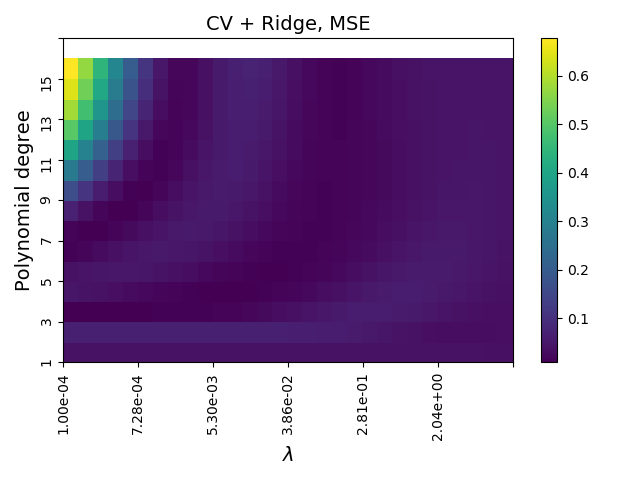
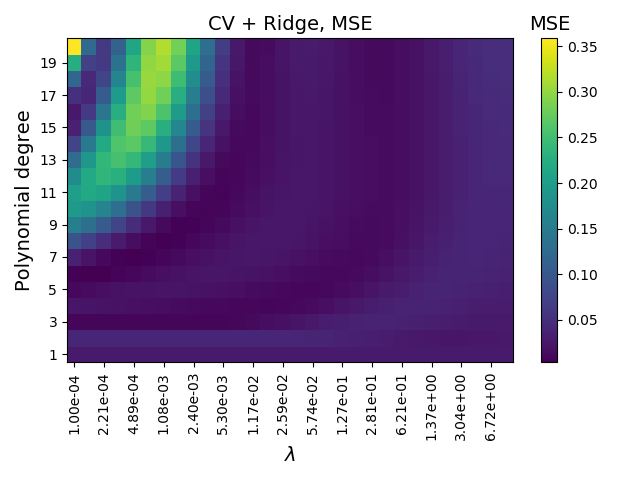
bootstrap still weird

diff --git a/src/main.py b/src/main.py
@@ -31,7 +31,7 @@ data = 'franke' if run_mode in ['a', 'b', 'c', 'd', 'e'] else None
 data = 'terrain' if run_mode in ['f', 'g'] else data
 
 # Common variables for both parts for easy adjusting
-p_dict = {'a': 5, 'b': 15, 'c': 5, 'd': 15,
+p_dict = {'a': 5, 'b': 15, 'c': 5, 'd': 20,
           'e': 10, 'f': 10, 'g': 15}
 scale_dict = {'a': [True, False], 'b': [True, False], 'c': [True, False], 'd': [True, False],
               'e': [True, False], 'f': [True, False], 'g': [True, False], 'h': [True, False]}
@@ -55,9 +55,11 @@ if data == 'franke':
     # Creating data set for the Franke function tasks
     seed = 4155
     np.random.seed(seed)
-    n_franke = 32  # number of samples of x/y
+#    n_franke = 32  # number of samples of x/y
+    n_franke = 23  # 529 points
     N = n_franke**2  # Total number of samples n*2
     noise = 0.05  # 2
+#    noise = 0.1  # 2
 #    noise = 0.8571
 
     # Randomly generated meshgrid
@@ -101,10 +103,9 @@ if run_mode == 'a':
     ztildeOLS = OLS.predict(X_test_scaled)
 
     # Printing MSE and R2 score
-    # TODO: maybe save results to file?
     fun.print_MSE_R2(z_test, ztildeOLS, 'test', 'OLS')
 
-    # Confidence interval TODO: fix comments
+    # Confidence interval for beta
     conf = OLS.confidence_interval_beta(X_test, z_test, ztildeOLS)
     fun.plot_confidence_int(betaOLS, conf, 'OLS', fig_path, run_mode)
     plt.show()
@@ -249,8 +250,10 @@ if run_mode == 'c':
     K = 5
 
     polydegree = np.arange(1, p + 1)
-    error_CV = np.zeros(len(polydegree))
-    error_SKL = np.zeros(len(polydegree))
+    error_train_CV = np.zeros(len(polydegree))
+    error_test_CV = np.zeros(len(polydegree))
+    error_train_SKL = np.zeros(len(polydegree))
+    error_test_SKL = np.zeros(len(polydegree))
 
     X_scaled = fun.scale_X(X, scale)
     OLS = reg.OrdinaryLeastSquares(OLSmethod)
@@ -262,30 +265,31 @@ if run_mode == 'c':
         X_cv[:, :] = X_scaled[:, 0:n_poly]
 
         CV = res.CrossValidation(X_cv, z_ravel, OLS, fun.mean_squared_error)
-        error_CV[degree-1] = CV.compute(K)
+        trainE, testE = CV.compute(K)
+        error_train_CV[degree-1] = trainE
+        error_test_CV[degree-1] = testE
 
         print('K-fold cross-validation:')
-        print('K=%d, MSE = %.5f' % (K, error_CV[degree-1]))
+        print('K=%d, MSE = %.5f' % (K, error_test_CV[degree-1]))
 
-        kfold = KFold(n_splits=K)
-    #    kfold = KFold(n_splits=K, random_state=None, shuffle=True)
-        for train_inds, test_inds in kfold.split(X):
-            X_train = X_cv[train_inds]
-            z_train = z_ravel[train_inds]
-
-            X_test = X_cv[test_inds]
-            z_test = z_ravel[test_inds]
-
-            betaOLS = OLS.fit(X_train, z_train)
-            z_testOLS = OLS.predict(X_test)
-
-            error_SKL[degree-1] += fun.mean_squared_error(z_test, z_testOLS) / K
+        CV_SKL = res.CrossValidationSKL(X_cv, z_ravel, OLS)
+        trainE, testE = CV_SKL.compute(K)
+        error_train_SKL[degree-1] = trainE
+        error_test_SKL[degree-1] = testE
 
         print('K-fold cross-validation SKL:')
-        print('K=%d, MSE = %.5f' % (K, error_SKL[degree-1]))
+        print('K=%d, MSE = %.5f' % (K, error_test_SKL[degree-1]))
 
-    fun.plot_multiple_y(polydegree, [error_CV, error_SKL], ['CV', 'SKL'], 'Comparing different CV implementations',
-                        'Polynomial degree', 'Mean squared error', 'compare_CV_SKL_p%d' % p, fig_path, run_mode)
+    fun.plot_multiple_y(polydegree, [error_test_CV, error_test_SKL], ['test CV', 'test SKL'],
+                        'Comparing different CV implementations', 'Polynomial degree', 'Mean squared error',
+                        'test_compare_CV_SKL_p%d' % p, fig_path, run_mode)
+
+    fun.plot_multiple_y(polydegree, [error_train_CV, error_train_SKL], ['train CV', 'train SKL'],
+                        'Comparing different CV implementations', 'Polynomial degree', 'Mean squared error',
+                        'train_compare_CV_SKL_p%d' % p, fig_path, run_mode)
+
+    # Suspect the difference lies in the splitting, which would be worth looking at
+
     plt.show()
 
 
@@ -295,7 +299,7 @@ if run_mode == 'd':
     lambdas = np.logspace(-4, 1, nlambdas)
 
     # Bootstrap
-    N_bootstraps = int(N/2)  # 100
+    N_bootstraps = 100  # int(N/2)  # 100
 
     # Cross-validation
     K = 5
@@ -314,21 +318,25 @@ if run_mode == 'd':
     polydegree = np.arange(1, p + 1)
 
     # Bootstrap arrays
-    bs_error_Ridge = np.zeros((p, nlambdas))
-    bs_bias_Ridge = np.zeros((p, nlambdas))
-    bs_var_Ridge = np.zeros((p, nlambdas))
+    bs_error_train = np.zeros((p, nlambdas))
+    bs_error_test = np.zeros((p, nlambdas))
+    bs_bias = np.zeros((p, nlambdas))
+    bs_var = np.zeros((p, nlambdas))
 
     # error/var/bias at the lambda that gives minimum
     # TODO: Though maybe a common value for them is correct to do?
-    bs_error_optimal = np.zeros(p)
-    bs_bias_optimal = np.zeros(p)
-    bs_var_optimal = np.zeros(p)
-    bs_lmb_optimal = np.zeros(p)
+    bs_error_train_opt = np.zeros(p)
+    bs_error_test_opt = np.zeros(p)
+    bs_bias_opt = np.zeros(p)
+    bs_var_opt = np.zeros(p)
+    bs_lmb_opt = np.zeros(p)
 
     # Cross-validation arrays
-    cv_error_Ridge = np.zeros((p, nlambdas))
-    cv_error_optimal = np.zeros(p)
-    cv_lmb_optimal = np.zeros(p)
+    cv_error_train = np.zeros((p, nlambdas))
+    cv_error_test = np.zeros((p, nlambdas))
+    cv_error_train_opt = np.zeros(p)
+    cv_error_test_opt = np.zeros(p)
+    cv_lmb_opt = np.zeros(p)
 #    test_Ridge = np.zeros((p, nlambdas))
 
     # Confidence intervals
@@ -357,70 +365,90 @@ if run_mode == 'd':
 
             # Bootstrap
             BS = res.Bootstrap(X_train_bs, X_test_bs, z_train, z_test, Ridge, fun.mean_squared_error)
-            error_, bias_, var_ = BS.compute(N_bootstraps)
-            bs_error_Ridge[degree-1, i] = error_
-            bs_bias_Ridge[degree - 1, i] = bias_
-            bs_var_Ridge[degree-1, i] = var_
+            error_, bias_, var_, trainE_ = BS.compute(N_bootstraps)
+            bs_error_test[degree-1, i] = error_
+            bs_bias[degree - 1, i] = bias_
+            bs_var[degree-1, i] = var_
+            bs_error_train[degree-1, i] = trainE_
 
             # Cross validation
             CV = res.CrossValidation(X_cv, z_ravel, Ridge, fun.mean_squared_error)
-            cv_error_Ridge[degree-1, i] = CV.compute(K)
-
-            # Confidence interval Ridge
-#            Ridge.fit(X_train_bs, z_train)
-#            z_Ridge = Ridge.predict(X_test_bs)
-#            conf_int_Ridge[degree-1, i, 0:n_poly] = Ridge.confidence_interval_beta(X_test_bs, z_test, z_Ridge)
-
+            trainE, testE = CV.compute(K)
+            cv_error_train[degree-1, i] = trainE
+            cv_error_test[degree-1, i] = testE
 
 #        bs_error_optimal[degree-1] = np.min(bs_error_Ridge[degree-1, :])
 #        bs_var_optimal[degree-1] = np.min(bs_var_Ridge[degree-1, :])
 #        bs_bias_optimal[degree-1] = np.min(bs_bias_Ridge[degree-1, :])
 
+        # Locating minimum MSE for each polynomial degree
+
         # Bootstrap
-        index_bs = np.argmin(bs_error_Ridge[degree-1, :])
-        bs_lmb_optimal[degree-1] = lambdas[index_bs]
-        bs_error_optimal[degree-1] = bs_error_Ridge[degree-1, index_bs]
-        bs_bias_optimal[degree-1] = bs_bias_Ridge[degree-1, index_bs]
-        bs_var_optimal[degree-1] = bs_var_Ridge[degree-1, index_bs]
+        index_bs = np.argmin(bs_error_test[degree-1, :])
+        bs_lmb_opt[degree-1] = lambdas[index_bs]
 
         # Cross-validation
-        index_cv = np.argmin(cv_error_Ridge[degree-1, :])
-        cv_lmb_optimal[degree-1] = lambdas[index_cv]
-        cv_error_optimal[degree-1] = cv_error_Ridge[degree-1, index_cv]
+        index_cv = np.argmin(cv_error_test[degree-1, :])
+        cv_lmb_opt[degree-1] = lambdas[index_cv]
 
-    # Locate minimum MSE to see how it depends on lambda
-    bs_min_error = np.unravel_index(np.argmin(bs_error_Ridge), bs_error_Ridge.shape)
-    cv_min_error = np.unravel_index(np.argmin(cv_error_Ridge), cv_error_Ridge.shape)
+    # Locate minimum MSE  to see how it depends on lambda
+    bs_min = np.unravel_index(np.argmin(bs_error_test), bs_error_test.shape)
+    cv_min = np.unravel_index(np.argmin(cv_error_test), cv_error_test.shape)
+    bs_best = [polydegree[bs_min[0]], lambdas[bs_min[1]]]
+    cv_best = [polydegree[cv_min[0]], lambdas[cv_min[1]]]
 
-    fun.plot_lambda_mse(lambdas, bs_error_Ridge[bs_min_error[0], :], 'Bootstrap p=%d' % bs_min_error[0],
-                        'bootstrap_p%d' % bs_min_error[0], fig_path, run_mode, fs=14)
+    # Bootstrap
+    bs_error_train_opt[:] = bs_error_train[:, bs_min[1]]
+    bs_error_test_opt[:] = bs_error_test[:, bs_min[1]]
+    bs_bias_opt[:] = bs_bias[:, bs_min[1]]
+    bs_var_opt[:] = bs_var[:, bs_min[1]]
 
-    fun.plot_lambda_mse(lambdas, cv_error_Ridge[cv_min_error[0], :], 'Cross-validation p=%d' % cv_min_error[0],
-                        'cv_p%d' % cv_min_error[0], fig_path, run_mode, fs=14)
+    # Cross-validation
+    cv_error_train_opt[:] = cv_error_train[:, cv_min[1]]
+    cv_error_test_opt[:] = cv_error_test[:, cv_min[1]]
+
+    fun.plot_lambda_mse(lambdas, bs_error_test[bs_min[0], :], 'Bootstrap p=%d' % bs_best[0],
+                        'bootstrap_p%d' % bs_best[0], fig_path, run_mode, fs=14)
+
+    fun.plot_lambda_mse(lambdas, cv_error_test[cv_min[0], :], 'Cross-validation p=%d' % cv_best[0],
+                        'cv_p%d' % cv_best[0], fig_path, run_mode, fs=14)
 
     # Bootstrap Plots
-    fun.plot_bias_variance(polydegree, bs_error_optimal, bs_bias_optimal, bs_var_optimal,
-                           'Ridge regression, $N$=%d, $N_{bs}$=%d' % (N, N_bootstraps),
+#    fun.plot_bias_variance(polydegree, bs_error_test[:, bs_min_error[1]], bs_bias[:, bs_min_error[1]], bs_var[:, bs_min_error[1]],
+    fun.plot_bias_variance(polydegree, bs_error_test_opt, bs_bias_opt, bs_var_opt,
+                           'Ridge regression, $\lambda$=%.2e, $N$=%d, $N_{bs}$=%d' % (bs_best[1], N, N_bootstraps),
                            'N%d_Nbs%d' % (N, N_bootstraps), fig_path, run_mode)
 
-    fun.plot_degree_lambda(polydegree, bs_lmb_optimal, 'Bootstrap $\lambda$ value at min(error)',
+    fun.plot_degree_lambda(polydegree, bs_lmb_opt, 'Bootstrap $\lambda$ value at min(error)',
                            'bootstrap', fig_path, run_mode)
 
-    fun.plot_heatmap(lambdas, polydegree, bs_error_Ridge, 'Bootstrap + Ridge, MSE',
+    fun.plot_heatmap(lambdas, polydegree, bs_error_test, 'MSE', 'Bootstrap + Ridge, MSE',
                      'bs_ridge_error', fig_path, run_mode)
 
-    fun.plot_heatmap(lambdas, polydegree, bs_bias_Ridge, 'Bootstrap + Ridge, bias',
+    fun.plot_heatmap(lambdas, polydegree, bs_bias, 'bias', 'Bootstrap + Ridge, bias',
                      'bs_ridge_bias', fig_path, run_mode)
 
-    fun.plot_heatmap(lambdas, polydegree, bs_var_Ridge, 'Bootstrap + Ridge, variance',
+    fun.plot_heatmap(lambdas, polydegree, bs_var, 'var', 'Bootstrap + Ridge, variance',
                      'bs_ridge_variance', fig_path, run_mode)
 
     # Cross-Validation Plots
-    fun.plot_degree_lambda(polydegree, cv_lmb_optimal, 'CV $\lambda$ value at min(error)',
+    fun.plot_degree_lambda(polydegree, cv_lmb_opt, 'CV $\lambda$ value at min(error)',
                            'cv', fig_path, run_mode)
 
-    fun.plot_heatmap(lambdas, polydegree, cv_error_Ridge, 'CV + Ridge, MSE',
+    fun.plot_heatmap(lambdas, polydegree, cv_error_test, 'MSE', 'CV + Ridge, MSE',
                      'cv_ridge_error', fig_path, run_mode)
+
+    # MSE train test plots
+    fun.plot_MSE_train_test(polydegree, cv_error_train_opt, cv_error_test_opt,
+                            'p=%d, $\lambda$=%.2e, N=%d, $N_{BS}$=%d' % (cv_best[0], cv_best[1], N, N_bootstraps),
+                            'p%d_lmb%.2e_n%d_ts%.2f' % (cv_best[0], cv_best[1], N, test_size),
+                            fig_path, run_mode, resample='CV')
+
+    fun.plot_MSE_train_test(polydegree, bs_error_train_opt, bs_error_test_opt,
+                            'p=%d, $\lambda$=%.2e, N=%d, $N_{BS}$=%d' % (bs_best[0], bs_best[1], N, N_bootstraps),
+                            'p%d_lmb%.2e_n%d_ts%.2f' % (bs_best[0], bs_best[1], N, test_size),
+                            fig_path, run_mode, resample='Bootstrap')
+
 
     # Confidence Interval plot for Ridge
     Ridge.set_lambda(1e-4)

diff --git a/src/functions.py b/src/functions.py
@@ -213,7 +213,7 @@ def plot_MSE_train_test(polydegree, train_MSE, test_MSE, title_mod, save, fig_pa
     plt.ylabel('Mean squared error', fontsize=fs)
 #    plt.yscale('log')
     plt.grid('on')
-    plt.tight_layout()
+#    plt.tight_layout()
     if resample is not None:
         plt.title(r'Train test MSE, %s, %s' % (resample, title_mod), fontsize=fs)
 #        plt.title('%s, N = %d, test size = %.2f, noise = %.2f' % (resample, n_a*n_a, test_size, noise), fontsize=fs)
@@ -224,10 +224,6 @@ def plot_MSE_train_test(polydegree, train_MSE, test_MSE, title_mod, save, fig_pa
 #        plt.title('N = %d, test size = %.2f, noise = %.2f' % (n_a*n_a, test_size, noise), fontsize=fs)
 #        plt.savefig(fig_path+'task_%s/MSE_train_test_n%d.png' % (task, n_a*n_a))
         plt.savefig(fig_path+'task_%s/MSE_train_test_%s.png' % (task, save))
-#    plt.ylim([0, 0.025])
-#    plt.ylim([0.0, 0.02])
-
-    # TODO: add more sophisticated filename - figure out what variation we need plot wise
 
 
 def plot_MSE_test_OLS_fit(polydegree, train_MSE, test_MSE, n_a, test_size, noise, OLSmethod, fs=14):
@@ -328,29 +324,25 @@ def plot_degree_lambda(polydegree, lambdas, title, save, fig_path, task, fs=14):
     plt.savefig(fig_path+'task_%s/degree_lambdas_%s.png' % (task, save))
 
 
-def plot_heatmap(x, y, z, title, save, fig_path, task, fs=14):
-    fig = plt.figure()
-#    heatmap = plt.pcolor(x, y, z)
-    heatmap = plt.pcolor(z)
-    fig.colorbar(heatmap)
-    loc, labels = plt.xticks()
-    step = int(loc[1]-loc[0])
-    locx = loc + step/2
-    print(locx, labels)
-    plt.xticks(loc, ['%.2e' % x[int(i)] for i in range(int(loc[0]), int(loc[-1]), step)], rotation=90)
+def plot_heatmap(x, y, z, zlab, title, save, fig_path, task, fs=14):
+    fig, ax = plt.subplots()
 
-    loc, labels = plt.yticks()
-    #locy = loc + (loc[1]-loc[0])/2
-    step = int(loc[1]-loc[0])
-    locy = loc + step/2
+    heatmap = ax.pcolor(z)
+    cbar = plt.colorbar(heatmap, ax=ax)
 
-    plt.yticks(loc, ['%d' % y[int(i)] for i in range(int(loc[0]), int(loc[-1]), step)], rotation=90)
+    step = 2
+    xticks = ['%1.2e' % x[i] for i in range(0, len(x), step)]
+    yticks = ['%d' % y[i] for i in range(0, len(y), step)]
 
-#    ax.set_xticks(np.arange(z.shape[0]) + .5, minor=False)
-#    ax.set_yticks(np.arange(z.shape[1]) + .5, minor=False)
-    plt.xlabel(r'$\lambda$', fontsize=fs)
-    plt.ylabel('Polynomial degree', fontsize=fs)
-    plt.title(title, fontsize=fs)
+    ax.set_xticks(np.arange(0, z.shape[1], step) + 0.5, minor=False)
+    ax.set_yticks(np.arange(0, z.shape[0], step) + 0.5, minor=False)
+    ax.set_xticklabels(xticks, rotation=90, fontsize=10)#fs-4)
+    ax.set_yticklabels(yticks, fontsize=10)#fs-4)
+
+    cbar.ax.set_title(zlab, fontsize=fs)
+    ax.set_xlabel(r'$\lambda$', fontsize=fs)
+    ax.set_ylabel('Polynomial degree', fontsize=fs)
+    ax.set_title(title, fontsize=fs)
     plt.tight_layout()
     plt.savefig(fig_path+'task_%s/heatmap_%s.png' % (task, save))
     # TODO: better filename

diff --git a/src/resampling_methods.py b/src/resampling_methods.py
@@ -40,8 +40,8 @@ class Bootstrap:
         y_train = self.y_train.reshape(-1, 1)
 
         for i in range(N_bootstraps):
-            if i % 10 == 0:
-                print('Bootstrap number: %d' % i)
+#            if i % 10 == 0:
+#                print('Bootstrap number: %d' % i)
             X_new, y_new = self.resample(self.X_train, self.y_train)
 #            X_new = fun.scale_X(X_new)
 #            X_new, y_new = resample(self.X_train, self.y_train)#, n_samples=N_bs)
@@ -272,6 +272,40 @@ class CrossValidation:
         y_test = y[test_indices]
 
         return X_train, X_test, y_train, y_test
+
+    def split_2(self, X, y, K):
+        # TODO: Check behavior compared to SKL kfold.split
+        # TODO: since not every number is neatly divisable with K
+        N = len(X)
+#        train_indices = np.zeros((N,), dtype=int)
+
+        for i in range(K):
+
+#        j = i*int(N/K)
+#        l = j + int(N/K)
+            j = int(i*N/K)  # TODO: check
+            l = j + int(N/K)
+
+#        print('Split #%d: N: %d, [%d : %d], %d' % (i, N, j, l, l-j))
+
+            indices = np.arange(N)
+            test_indices = indices[j:l]
+            mask = np.ones(N, dtype=bool)
+            mask[test_indices] = False
+            train_indices = indices[mask]
+
+        X_train = X[train_indices]
+        X_test = X[test_indices]
+#        print(X_train.shape, X_test.shape)
+#        print(test_indices)
+#        print('train ', X_train)
+#        print('test ', X_test)
+
+        y_train = y[train_indices]
+        y_test = y[test_indices]
+
+        return X_train, X_test, y_train, y_test
+
 
 
 class CrossValidationSKL:
